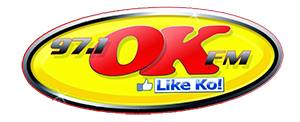
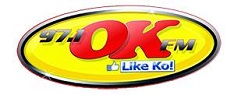
facebook like pages resize images

diff --git a/index.html b/index.html
@@ -44,6 +44,15 @@
   </head>
 
   <body>
+    <div id="fb-root"></div>
+    <script>(function(d, s, id) {
+      var js, fjs = d.getElementsByTagName(s)[0];
+      if (d.getElementById(id)) return;
+      js = d.createElement(s); js.id = id;
+      js.src = "//connect.facebook.net/en_US/sdk.js#xfbml=1&version=v2.0";
+      fjs.parentNode.insertBefore(js, fjs);
+    }(document, 'script', 'facebook-jssdk'));</script>
+
     <header>
       <div class="inner">
         <h1>Bicol IT: Tech Talks 05</h1>
@@ -156,12 +165,28 @@
           </div>
           <br />
           <h2>Our Partners for Tech Talk 05</h2>
+
           <a href="http://www.nueca.net/"><img src="images/partners/nueca.jpg" alt="Nueva Caceres Technology Solutions, Inc."></a>
+          <br />
+
           <a href="https://www.facebook.com/WillyandSons"><img src="images/partners/willyandsons.jpg" alt="Willy and Sons Corporation"></a>
+          <div class="fb-like-box" data-href="https://www.facebook.com/WillyandSons" data-colorscheme="light" data-show-faces="false" data-header="true" data-stream="false" data-show-border="true"></div>
+          <br />
+
           <a href="http://www.cybertrend.com.ph/" title="Cybertrend" class="right-buff bottom-buff"><img src="images/partners/cybertrend.jpg" alt="Cybertrend"></a>
+          <br />
+
           <img src="images/partners/doj.jpg" alt="Parole and Probation Office, DOJ">
+          <a href="https://www.facebook.com/rembrandtstudios">
+          <br />
+
           <a href="https://www.facebook.com/rembrandtstudios"><img src="images/partners/rembrandt.jpg" alt="Rembrandt Studios"></a>
+          <div class="fb-like-box" data-href="https://www.facebook.com/rembrandtstudios" data-colorscheme="light" data-show-faces="false" data-header="true" data-stream="false" data-show-border="true"></div>
+          <br />
+
           <a href="https://www.facebook.com/pages/971-OKFM/174312525918545"><img src="images/partners/okfm.jpg" alt="97.1 OK FM"></a>
+          <div class="fb-like-box" data-href="https://www.facebook.com/pages/971-OKFM/174312525918545" data-colorscheme="light" data-show-faces="false" data-header="true" data-stream="false" data-show-border="true"></div>
+
           <br />
           <br />
           <h2>Our Venue</h2>
@@ -191,6 +216,7 @@
             <li><a href="http://www.youtube.com/channel/UC3Duga83_jpmTmfAMBSy3bQ">Our YouTube Channel</a></li>
             <li><a href="http://www.slideshare.net/bicolIT">Follow us on SlideShare</a></li>
           </ul>
+<div class="fb-like-box" data-href="https://www.facebook.com/bicolitorg" data-colorscheme="light" data-show-faces="true" data-header="true" data-stream="false" data-show-border="true"></div>
         </aside>
       </div>
     </div>
